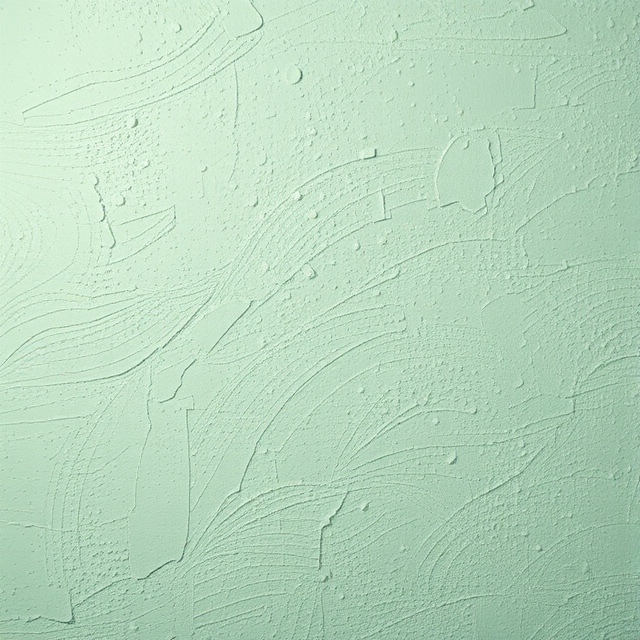
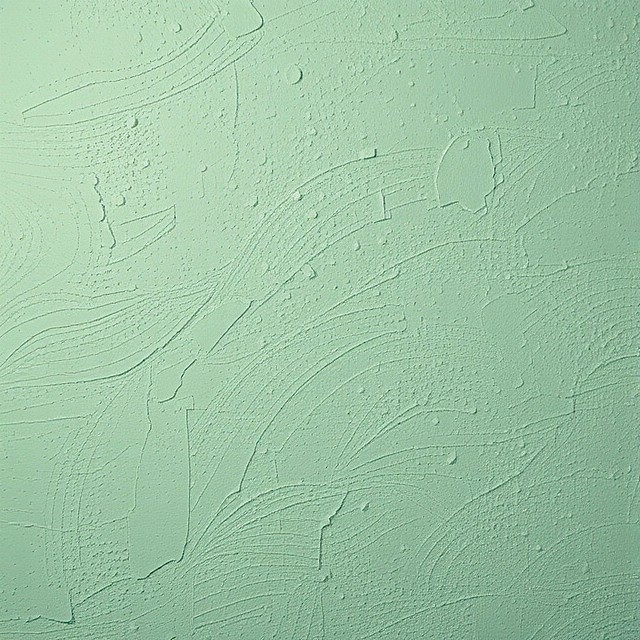
major changes

diff --git a/m2.html b/m2.html
@@ -35,32 +35,30 @@
         <p style="font-size: medium;">
              <h3>Our Metal Inventory</h3>  
          </p>
-         <!--1 product-->
+         <!--11 product-->
          <div class="products">
             <div class="metprod wrapper3">
-                <img src="product images/(80).JPEG" alt="" id="mp">
+                <img src="product images/(22).JPEG" alt="" id="mp">
                 <div >
-                <p style="font-size: x-large; font-weight: bold;">Metal globe</p>
-                <p>A world of charm at your fingertips! 
-                    This 12-inch pink metal globe with a charming brown wooden base is the perfect blend of elegance and wanderlust. Whether you're planning your next adventure or simply adding a touch of chic to your space, this beauty is here to inspire. 
-                    </p>
-                    <span id="sp1"> 
-                        <p style="font-weight: 600;font-size: x-large;">Price: ₹1636.6</p>
-                        <a href="80.html" class="btn1">BuyNow -></a>
-                    </span>  
-                </div>
+                <p style="font-size: x-large; font-weight: bold;">Metal Sculpture</p>
+                <p>This 20-inch metal sculpture is a stunning piece featuring a white textured design with intricate golden details and edges. Perfectly crafted to make a bold yet refined statement in your decor. </p>
+                <span id="sp1"> 
+                    <!-- <p style="font-weight: 600;font-size: x-large;">Price:₹1920.0 </p> -->
+                    <a href="22.html" class="btn1">₹1920.0  BuyNow</a>
+                </span>  
+            </div>
             </div>
          </div>
-          <!-- 2 product -->
+          <!-- 12 product -->
           <div class="products">
             <div class="metprod wrapper3">
-                <img src="product images/(39).JPEG" alt="" id="mp">
+                <img src="product images/(53).JPEG" alt="" id="mp">
                 <div >
-                <p style="font-size: x-large; font-weight: bold;">Metal globe</p>
-                <p>This 12-inch black metal globe with stunning golden details and a classic brown wooden base is a decor essential for those who love timeless sophistication. Perfect for adding a touch of wanderlust and elegance to your space. </p>
+                <p style="font-size: x-large; font-weight: bold;">Metal Jasmine platter</p>
+                <p>This stunning metal platter features a sleek silver base adorned with intricate bronze jasmine details. Perfect as a centerpiece or a serving accessory, it brings a touch of nature-inspired elegance to your home. 
                     <span id="sp1"> 
-                        <p style="font-weight: 600;font-size: x-large;">Price: 1636.6</p>
-                        <a href="39.html" class="btn1">BuyNow -></a>
+                        <!-- <p style="font-weight: 600;font-size: x-large;">Price:₹2129.0</p> -->
+                        <a href="53.html" class="btn1">₹2129.0  BuyNow </a>
                     </span>
                 </div>
             </div>
@@ -193,8 +191,8 @@
     <div class="pagination">
         <button class="btnpg1" onclick="backbtn()"><i class="fa-solid fa-chevron-left"></i></button>
         <ul>
-            <a href="metal.html"> <li class="link active" value="1" onclick="activeLink()">1</li></a>
-            <a href="m2.html"> <li class="link" value="2" onclick="activeLink()">2</li></a>
+            <a href="metal.html"> <li class="link" value="1" onclick="activeLink()">1</li></a>
+            <a href="m2.html"> <li class="link active" value="2" onclick="activeLink()">2</li></a>
             <a href="m3.html"><li class="link" value="3" onclick="activeLink()">3</li></a>
             <a href="m4.html"> <li class="link" value="4" onclick="activeLink()">4</li></a>
             <a href="m5.html"><li class="link" value="5" onclick="activeLink()">5</li></a>

diff --git a/style.css b/style.css
@@ -14,7 +14,7 @@ li{
 }
 body{
     width: 100%;
-    background-image: url("imgs/sc1.jpg");
+    background-image:url("imgs/Taxer\ background\ .jpg"); 
     background-repeat: no-repeat;
     background-size: cover;
     background-position: center;
@@ -121,7 +121,7 @@ section{
     display: block;
     align-content: center;
         background: linear-gradient(135deg, rgba(255, 255, 255, 0.1), rgba(255, 255, 255, 0));
-        backdrop-filter: blur(15px);
+        backdrop-filter: blur(4px);
         -webkit-backdrop-filter: blur(10px);
         border-radius: 20px;
         border:1px solid rgba(255, 255, 255, 0.18);
@@ -338,7 +338,7 @@ section{
 }
 .btn1{
     position: sticky;
-    margin-left: 120px;
+    /* margin-left: 120px; */
     display: inline-block;
     padding: 1rem 1.8rem;
     background-color: rgba(0, 0, 0, 0.531);
@@ -383,6 +383,53 @@ section{
         
     }
 
+    /* ---------------------------pagination-------------------------- */
+.container{
+    width: 100%;
+    height: 30vh;
+    display: flex;
+    align-items: center;
+    justify-content: center;
+}
+.pagination{
+    display: flex;
+    align-items: center;
+    padding: 10px 40px;
+    border-radius: 6px;
+}
+
+.pagination ul{
+    margin: 20px 30px;
+}
+
+.pagination ul li{
+    display: inline-block;
+    margin: 0 10px;
+    background: #cccccc2f;
+    height: 45px;
+    width: 45px;
+    border-radius: 40%;
+    text-align: center;
+    font-size: 22px;   
+    font-weight: 500;
+    line-height: 45px;
+    cursor: pointer;
+    transition: 0.5s;
+}
+.pagination ul li:hover{
+     font-size: 25px;
+}
+.pagination ul li.active{
+    background: #00000094;
+    color: #ccc;
+    
+}
+.pagination ul a{
+    color: #000;
+}
+.btnpg1{
+    border-radius: 40%;
+}
     /*----------------------------------- responsive-------------------- */
   
 @media(max-width:1024px){

diff --git a/script.js b/script.js
@@ -1,3 +1,4 @@
+// --------------------login/reg-----------------
 function showreg(){
     const show = document.querySelector('.wrapper1')
     show.style.display = 'block'
@@ -10,4 +11,33 @@ function showlog(){
     show.style.display = 'block'
     const hide = document.querySelector('.wrapper1')
     hide.style.display = 'none'
+}
+
+// -----------------pagination--------------------
+let link = document.getElementsByClassName("link")
+let currentValue = 1;
+function activeLink(){
+    for(l of link){
+        l.classList.remove("active");
+    }
+    event.target.classList.add("active");
+    currentValue = event.target.value;
+}
+function backbtn(){
+    if(currentValue>1){
+        for(l of link){
+            l.classList.remove("active");
+        }
+        currentValue--;
+        link[currentValue-1].classList.add("active");
+    }
+}
+function nextbtn(){
+    if(currentValue<8){
+        for(l of link){
+            l.classList.remove("active");
+        }
+        currentValue++;
+        link[currentValue-1].classList.add("active");
+    }
 }
